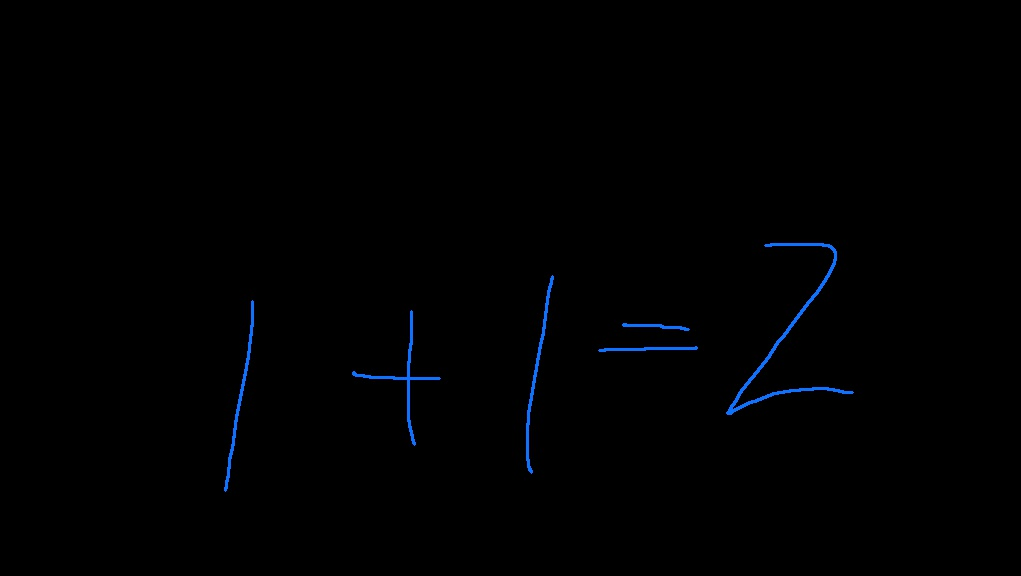
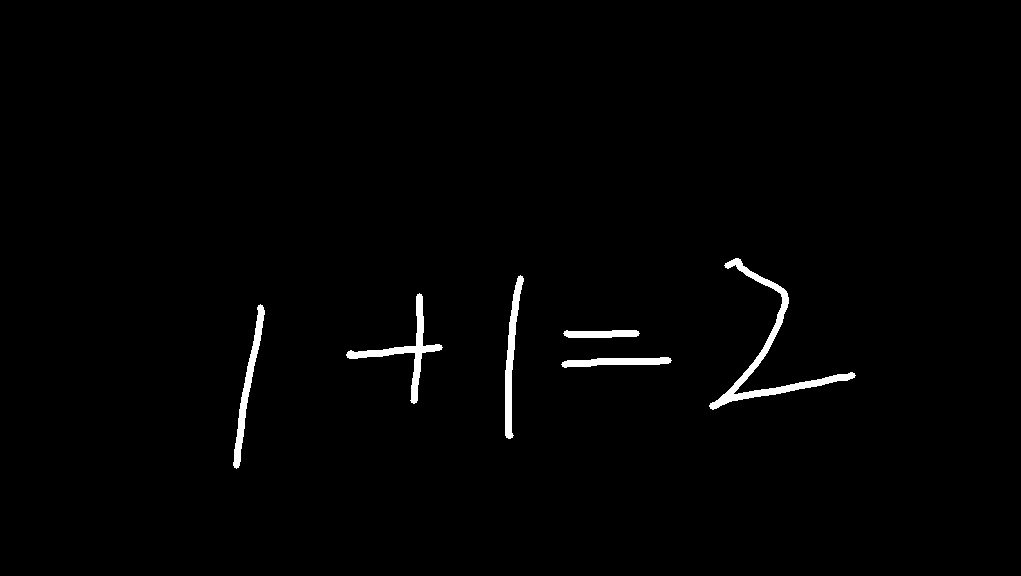
The color of the line user draws changed
The color of the line user draws changed from blue to white, and the line thickness is increased.

diff --git a/Functions.py b/Functions.py
@@ -23,8 +23,8 @@ def DrawContours(net_img, dicom_img):
     # draw blue for human
     ret, threshHuman = cv2.threshold(net_img, 249, 255, 0)
     _, contours, _ = cv2.findContours(threshHuman, cv2.RETR_TREE, cv2.CHAIN_APPROX_SIMPLE)
-    cv2.drawContours(img, contours, -1, (255, 113, 17), 2)
-    cv2.drawContours(img, contours, -1, (255, 113, 17), 2)#???????????
+    #cv2.drawContours(img, contours, -1, (255, 113, 17), 2)
+    cv2.drawContours(img, contours, -1, (255, 255, 255), 5)# this affect the actual color of drawing
     # # draw orange for machine
     # ret, threshMachine = cv2.threshold(net_img, 254, 255, 0)
     # _, contours, _ = cv2.findContours(threshMachine, cv2.RETR_TREE, cv2.CHAIN_APPROX_SIMPLE)
